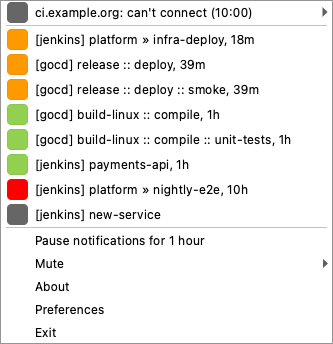
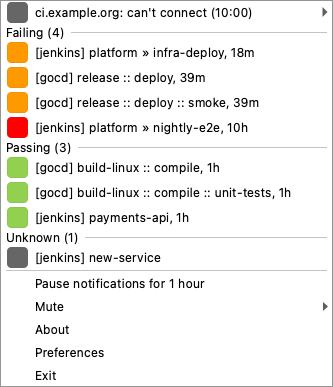
Group the tray menu under Failing, Building, Passing and Unknown headers
Each header carries its count and empty sections are left out, so the status
is in text and not only in the icon colour. The user's sort applies within
each section (TASK-62).

diff --git a/test/integration/app_menu_test.py b/test/integration/app_menu_test.py
@@ -41,6 +41,7 @@ def test_should_set_menu_items_for_projects(qtbot):
     app_menu.menu.show()
 
     assert [str(a.text()) for a in app_menu.menu.actions()] == [
+        "Passing (1)",
         "Project 1",
         "",
         "Pause notifications for 1 hour",
@@ -76,6 +77,7 @@ def test_should_suffix_build_time(qtbot):
     app_menu.menu.show()
 
     assert [str(a.text()) for a in app_menu.menu.actions()] == [
+        "Passing (1)",
         "Project 1, 1y",
         "",
         "Pause notifications for 1 hour",
@@ -104,7 +106,7 @@ def test_should_show_future_build_time_as_in(qtbot):
 
     app_menu.update([project1])
 
-    assert str(app_menu.menu.actions()[0].text()) == "Project 1, in 5h"
+    assert str(app_menu.menu.actions()[1].text()) == "Project 1, in 5h"
 
 
 @pytest.mark.functional
@@ -140,6 +142,7 @@ def test_should_sort_by_name(qtbot):
     app_menu.menu.show()
 
     assert [str(a.text()) for a in app_menu.menu.actions()] == [
+        "Passing (2)",
         "AProject",
         "BProject",
         "",
@@ -196,6 +199,7 @@ def test_should_add_display_prefix(qtbot):
     app_menu.menu.show()
 
     assert [str(a.text()) for a in app_menu.menu.actions()] == [
+        "Passing (2)",
         "AProject",
         "[R1] BProject",
         "",
@@ -268,6 +272,7 @@ def test_should_consider_prefix_for_sorting(qtbot):
     app_menu.menu.show()
 
     assert [str(a.text()) for a in app_menu.menu.actions()] == [
+        "Passing (3)",
         "[R1] BProject",
         "[R2] AProject",
         "[R2] CProject",
@@ -314,6 +319,7 @@ def test_should_show_recent_build_first(qtbot):
     app_menu.menu.show()
 
     assert [str(a.text()) for a in app_menu.menu.actions()] == [
+        "Passing (2)",
         "AProject",
         "BProject",
         "",
@@ -375,6 +381,7 @@ def test_should_sort_and_label_projects_with_unparseable_build_time(qtbot):
     app_menu.update([broken, recent])
 
     assert [str(a.text()) for a in app_menu.menu.actions()] == [
+        "Passing (2)",
         "Recent, now",
         "Broken",
         "",
@@ -464,7 +471,7 @@ def test_should_show_an_enabled_row_with_a_short_error_and_its_time_for_an_unava
     actions = app_menu.menu.actions()
     assert [a.text() for a in actions] == [
         "ci.example.com: HTTP 503 (09:05)",
-        "",
+        "Passing (1)",
         "Project 1",
         "",
         "Pause notifications for 1 hour",
@@ -609,7 +616,8 @@ def test_should_mark_muted_projects_but_keep_them_in_the_menu(mute_menu):
 
     app_menu.update([built("api"), built("web"), built("docs", OTHER)])
 
-    assert sorted(texts(app_menu.menu)[:3]) == ["api (muted)", "docs (muted)", "web"]
+    assert texts(app_menu.menu)[0] == "Passing (3)"
+    assert sorted(texts(app_menu.menu)[1:4]) == ["api (muted)", "docs (muted)", "web"]
 
 
 @pytest.mark.functional
@@ -701,7 +709,7 @@ def test_should_mute_a_server_from_the_menu_and_persist_it(mute_menu):
 
     assert app_menu.store.settings.servers[0].muted
     assert reopened(app_menu).servers[0].muted
-    assert texts(app_menu.menu)[0] == "api (muted)"
+    assert texts(app_menu.menu)[1] == "api (muted)"
     assert action(submenu(app_menu), "ci/cc.xml").isChecked()
 
 
@@ -713,7 +721,7 @@ def test_should_unmute_a_project_from_the_menu_and_persist_it(mute_menu):
     action(submenu(app_menu), "api").trigger()
 
     assert reopened(app_menu).servers[0].muted_projects == []
-    assert texts(app_menu.menu)[0] == "api"
+    assert texts(app_menu.menu)[1] == "api"
 
 
 @pytest.mark.functional
@@ -787,3 +795,47 @@ def test_should_keep_mutes_toggled_while_preferences_is_open(mute_menu, mocker):
     servers = reopened(app_menu).servers
     assert [(s.muted, s.muted_projects) for s in servers] == [(False, ["web"]), (True, [])]
     assert reopened(app_menu).interval_seconds == 30
+
+
+def project_with(name, status, activity="Sleeping"):
+    return ProjectBuilder({"name": name, "lastBuildStatus": status, "activity": activity}).server(CI).build()
+
+
+@pytest.mark.functional
+def test_should_group_projects_under_status_headers_with_counts(mute_menu):
+    app_menu = mute_menu(ServerSettings(CI), sort_key=SortKey.NAME)
+    projects = [
+        project_with("web", "Success"),
+        project_with("api", "Failure", "Building"),
+        project_with("new", "Unknown"),
+        project_with("deploy", "Success", "Building"),
+        project_with("docs", "Success"),
+        project_with("e2e", "Failure"),
+    ]
+
+    app_menu.update(projects)
+
+    assert texts(app_menu.menu)[:11] == [
+        "Failing (2)",
+        "api",
+        "e2e",
+        "Building (1)",
+        "deploy",
+        "Passing (2)",
+        "docs",
+        "web",
+        "Unknown (1)",
+        "new",
+        "",
+    ]
+    headers = [a for a in app_menu.menu.actions() if a.isSeparator() and a.text()]
+    assert [a.text() for a in headers] == ["Failing (2)", "Building (1)", "Passing (2)", "Unknown (1)"]
+
+
+@pytest.mark.functional
+def test_should_omit_empty_sections(mute_menu):
+    app_menu = mute_menu(ServerSettings(CI))
+
+    app_menu.update([project_with("api", "Success")])
+
+    assert texts(app_menu.menu)[:3] == ["Passing (1)", "api", ""]

diff --git a/buildnotifylib/ui/app_menu.py b/buildnotifylib/ui/app_menu.py
@@ -25,6 +25,7 @@ from buildnotifylib.core.mute import (
     with_server,
 )
 from buildnotifylib.core.ports import Connection
+from buildnotifylib.core.sections import grouped
 from buildnotifylib.core.settings import AppSettings, ServerSettings, SortKey
 from buildnotifylib.ui.build_icons import BuildIcons
 from buildnotifylib.ui.dialogs.preferences.dialog import PreferencesDialog
@@ -58,11 +59,13 @@ class AppMenu(QtCore.QObject):
     def update(self, projects: list[Project], unavailable: Sequence[ServerSnapshot] = ()):
         self.projects, self.unavailable = projects, unavailable
         self.menu.clear()
-        self.create_error_items(unavailable)
+        self.create_error_items(unavailable, separate=not projects)
         mutes = Mutes.from_settings(self.store.settings)
-        for project in self.sorted_projects(projects):
-            icon = self.build_icons.for_status(project.get_build_status())
-            self.create_menu_item(project, icon, mutes.mutes(project))
+        for section, members in grouped(self.sorted_projects(projects)):
+            self.menu.addSection(f"{section} ({len(members)})")
+            for project in members:
+                icon = self.build_icons.for_status(project.get_build_status())
+                self.create_menu_item(project, icon, mutes.mutes(project))
         self.create_default_menu_items()
 
     def sorted_projects(self, projects: list[Project]) -> list[Project]:
@@ -77,11 +80,11 @@ class AppMenu(QtCore.QObject):
             return False, 0.0
         return True, build_time.timestamp()
 
-    def create_error_items(self, servers: Sequence[ServerSnapshot]):
+    def create_error_items(self, servers: Sequence[ServerSnapshot], separate: bool):
         for menu in self.error_menus:
             menu.deleteLater()
         self.error_menus = [self.create_error_menu(server) for server in servers]
-        if servers:
+        if servers and separate:
             self.menu.addSeparator()
 
     def create_error_menu(self, snapshot: ServerSnapshot) -> QMenu:

diff --git a/test/unit/sections_test.py b/test/unit/sections_test.py
@@ -1,0 +1,41 @@
+import pytest
+from hypothesis import given
+
+from buildnotifylib.core.model import Activity, Project, Status
+from buildnotifylib.core.sections import Section, grouped, section_of
+from test.strategies import project_lists
+
+
+def project(name: str, status: Status, activity: Activity = Activity.SLEEPING) -> Project:
+    return Project("http://ci", name, status, activity, "http://ci/" + name)
+
+
+@pytest.mark.parametrize(
+    "status, activity, section",
+    [
+        (Status.FAILURE, Activity.SLEEPING, Section.FAILING),
+        (Status.FAILURE, Activity.BUILDING, Section.FAILING),
+        (Status.FAILURE, Activity.CHECKING_MODIFICATIONS, Section.FAILING),
+        (Status.SUCCESS, Activity.BUILDING, Section.BUILDING),
+        (Status.UNKNOWN, Activity.BUILDING, Section.BUILDING),
+        (Status.SUCCESS, Activity.SLEEPING, Section.PASSING),
+        (Status.SUCCESS, Activity.CHECKING_MODIFICATIONS, Section.PASSING),
+        (Status.UNKNOWN, Activity.SLEEPING, Section.UNKNOWN),
+        (Status.SUCCESS, Activity.UNKNOWN, Section.UNKNOWN),
+        (Status.FAILURE, Activity.UNKNOWN, Section.UNKNOWN),
+    ],
+)
+def test_should_put_a_project_in_the_section_for_its_status(status, activity, section):
+    assert section_of(project("a", status, activity)) is section
+
+
+def test_should_group_in_section_order_keeping_the_order_within_and_omitting_empty_sections():
+    a, b = project("a", Status.SUCCESS), project("b", Status.UNKNOWN)
+    c, d = project("c", Status.FAILURE), project("d", Status.SUCCESS)
+
+    assert grouped([a, b, c, d]) == [(Section.FAILING, [c]), (Section.PASSING, [a, d]), (Section.UNKNOWN, [b])]
+
+
+@given(project_lists())
+def test_grouping_should_keep_every_project_once(projects):
+    assert sorted(id(p) for _, members in grouped(projects) for p in members) == sorted(id(p) for p in projects)

diff --git a/buildnotifylib/core/sections.py b/buildnotifylib/core/sections.py
@@ -1,0 +1,32 @@
+"""The tray menu's status sections: Failing, Building, Passing and Unknown, in that order."""
+
+from enum import StrEnum
+
+from buildnotifylib.core.aggregate import rank
+from buildnotifylib.core.model import Activity, Project, Status
+
+
+class Section(StrEnum):
+    FAILING = "Failing"
+    BUILDING = "Building"
+    PASSING = "Passing"
+    UNKNOWN = "Unknown"
+
+
+def section_of(project: Project) -> Section:
+    status, activity = rank(project)
+    if status is Status.FAILURE:
+        return Section.FAILING
+    if activity is Activity.BUILDING:
+        return Section.BUILDING
+    if status is Status.SUCCESS:
+        return Section.PASSING
+    return Section.UNKNOWN
+
+
+def grouped(projects: list[Project]) -> list[tuple[Section, list[Project]]]:
+    """The non-empty sections in order, each keeping the order its projects came in."""
+    members: dict[Section, list[Project]] = {section: [] for section in Section}
+    for project in projects:
+        members[section_of(project)].append(project)
+    return [(section, found) for section, found in members.items() if found]

diff --git a/test/integration/buildnotify_test.py b/test/integration/buildnotify_test.py
@@ -35,7 +35,7 @@ def test_should_consolidate_build_status(qtbot, mocker):
         qtbot.waitUntil(lambda: hasattr(b, "app_ui"))
 
         def projects_loaded():
-            assert len([str(a.text()) for a in b.app_ui.app_menu.menu.actions()]) == 13
+            assert len([str(a.text()) for a in b.app_ui.app_menu.menu.actions()]) == 15
 
         qtbot.waitUntil(lambda: re.compile("Last checked.*").search(b.app_ui.tray.toolTip()) is not None, timeout=5000)
         qtbot.waitUntil(projects_loaded)

diff --git a/docs/usage.md b/docs/usage.md
@@ -66,12 +66,13 @@ On Windows, `cmd.exe` has no quoting that makes `&`, `|`, `^` and `%` safe, so a
 
 ## Tray Menu
 
-1. Each project is represented with an icon indicating the last build status, followed by how long ago it last built, such as `18m`, `11h` or `3d`.
-2. If the build is still in progress, an activity indicator icon is used to indicate the server activity.
-3. All projects in the configured CI servers contribute to the overall build status which is displayed in the tray.
-4. The tray tooltip lists failing projects, such as `2 failing: api, web`, above the last checked time. When every server is down and none has projects from an earlier fetch, it says `Can't reach any server` instead.
-5. Clicking on any project in the tray menu would take you to the project page on the CI server.
-6. A server that can't be reached gets a row at the top of the menu with its menu prefix (or its host), a short reason and the time it happened, such as `jenkins: can't connect (10:00)` or `ci.example.org: sign-in failed (10:00)`. The row opens a submenu with the full error, a hint when there is one, `Retry now`, which checks every server again, and `Edit server...`, which opens the server dialog. Its projects from the last successful fetch stay in the list.
+1. Projects are grouped under `Failing`, `Building`, `Passing` and `Unknown` headers, each with a count, such as `Failing (2)`. A section with no projects is left out. A failing project that is building again stays under `Failing`.
+2. Each project is represented with an icon indicating the last build status, followed by how long ago it last built, such as `18m`, `11h` or `3d`.
+3. If the build is still in progress, an activity indicator icon is used to indicate the server activity.
+4. All projects in the configured CI servers contribute to the overall build status which is displayed in the tray.
+5. The tray tooltip lists failing projects, such as `2 failing: api, web`, above the last checked time. When every server is down and none has projects from an earlier fetch, it says `Can't reach any server` instead.
+6. Clicking on any project in the tray menu would take you to the project page on the CI server.
+7. A server that can't be reached gets a row at the top of the menu with its menu prefix (or its host), a short reason and the time it happened, such as `jenkins: can't connect (10:00)` or `ci.example.org: sign-in failed (10:00)`. The row opens a submenu with the full error, a hint when there is one, `Retry now`, which checks every server again, and `Edit server...`, which opens the server dialog. Its projects from the last successful fetch stay in the list.
 
 ![Tray menu](images/projectlist.png)
 
